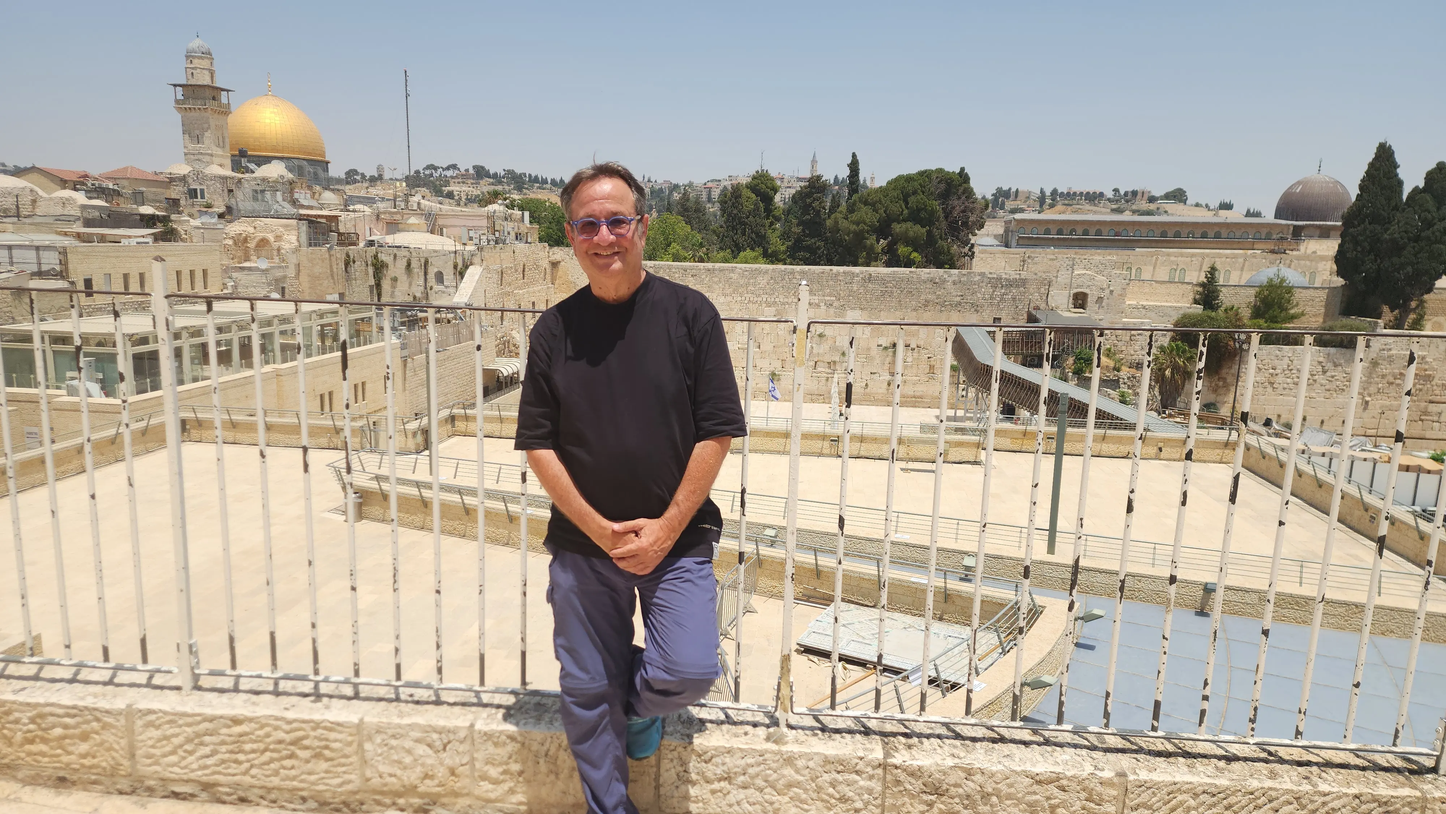
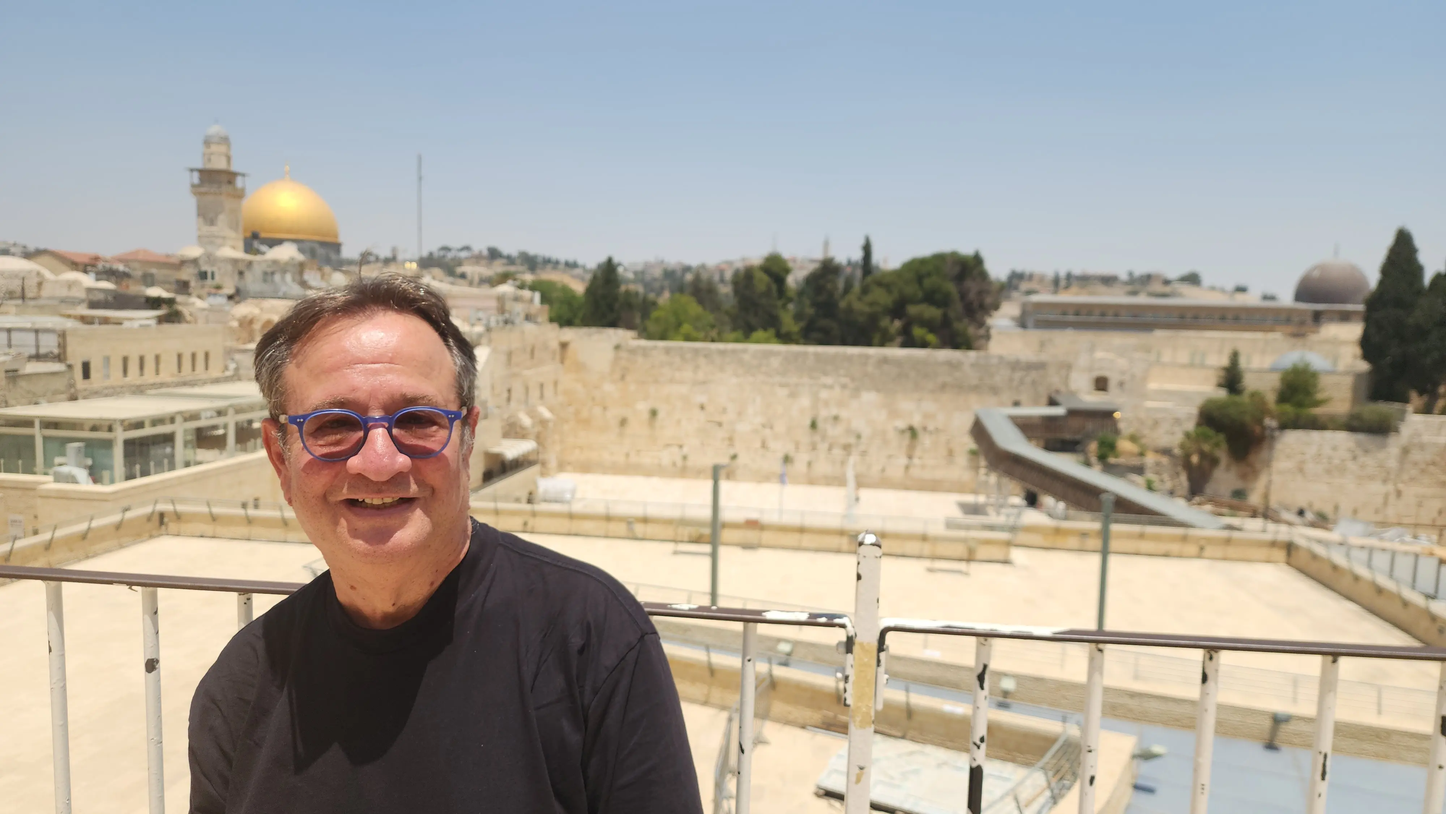
ui(contact): pull photo closer and update photo

diff --git a/app/contact/page.tsx b/app/contact/page.tsx
@@ -129,7 +129,7 @@ export default function ContactPage() {
                 </div>
               </div>
 
-              <div className="h-full">
+              <div className="h-full lg:-ml-8">
                 <div className="relative w-full overflow-hidden rounded-xl shadow-lg border border-[#e5ddd4] bg-[#f5f2ed]">
                   <div className="relative w-full aspect-video">
                     <Image
